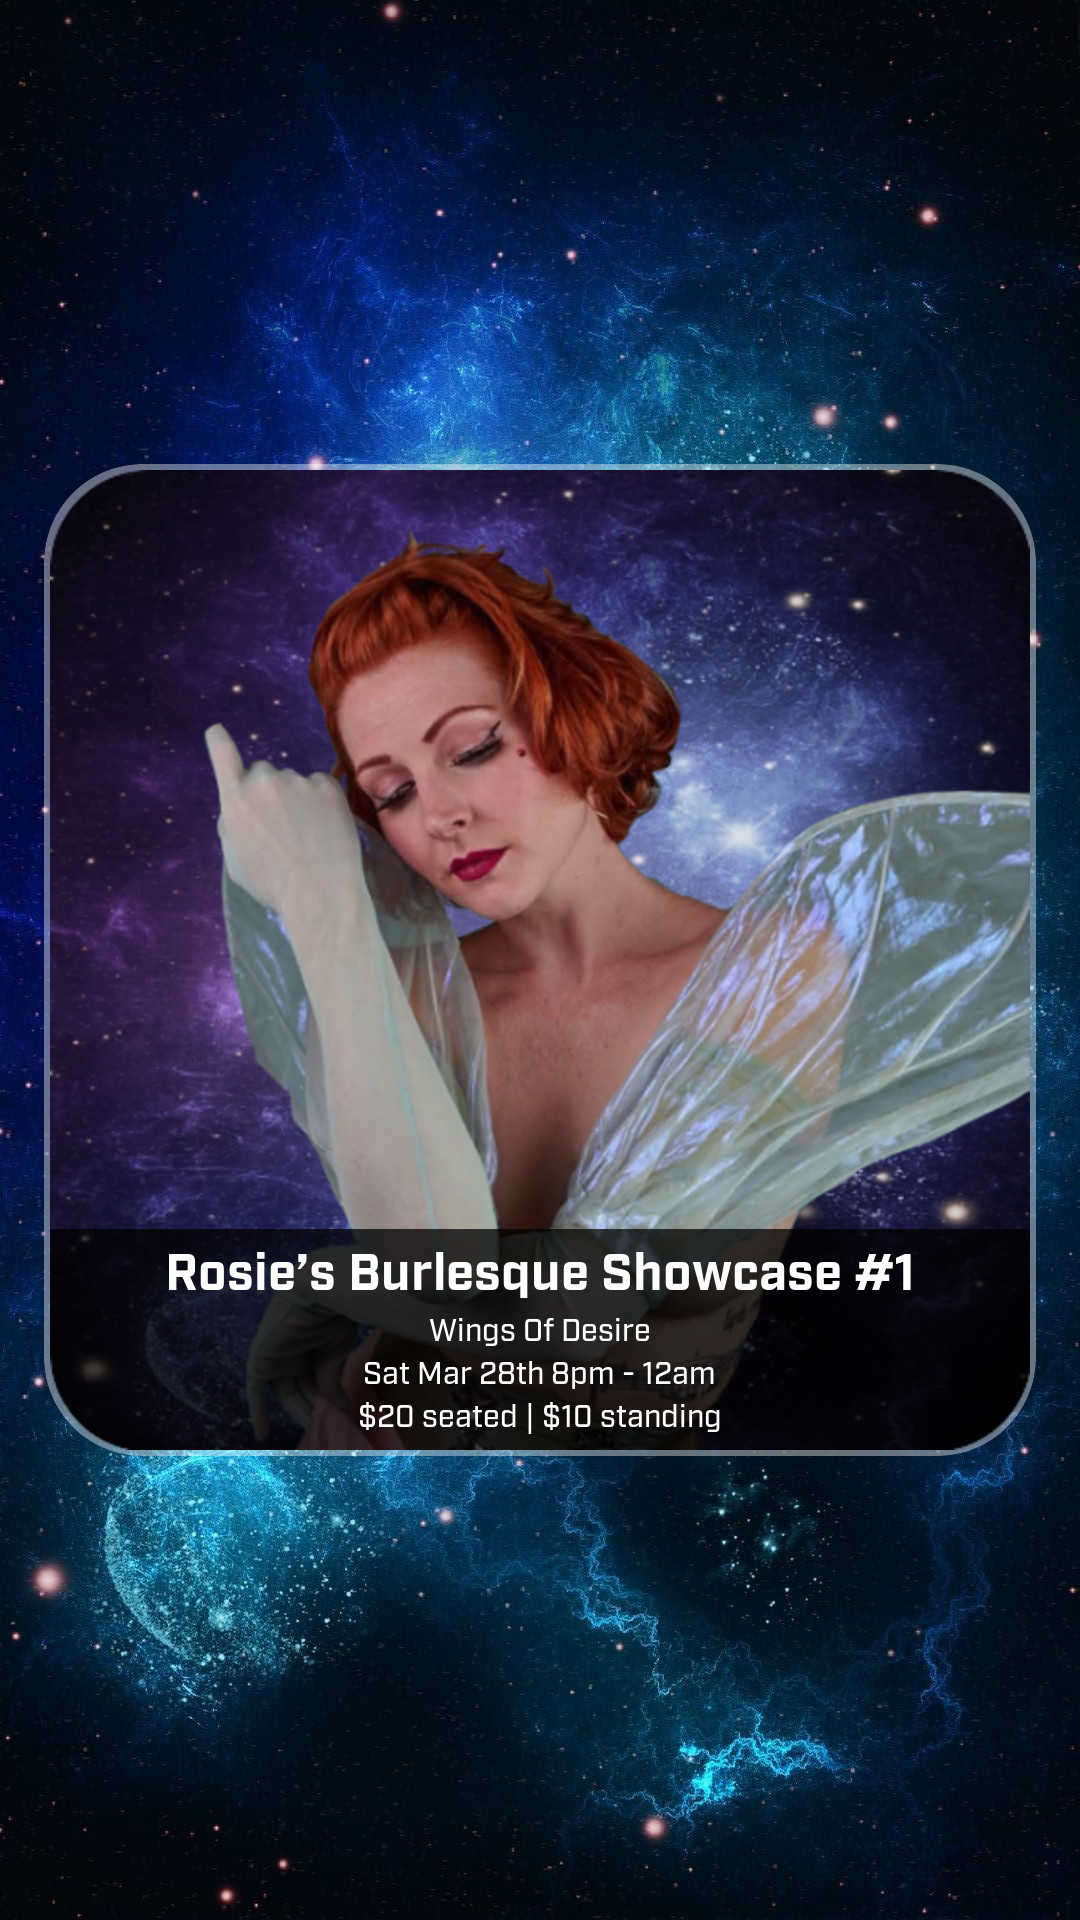
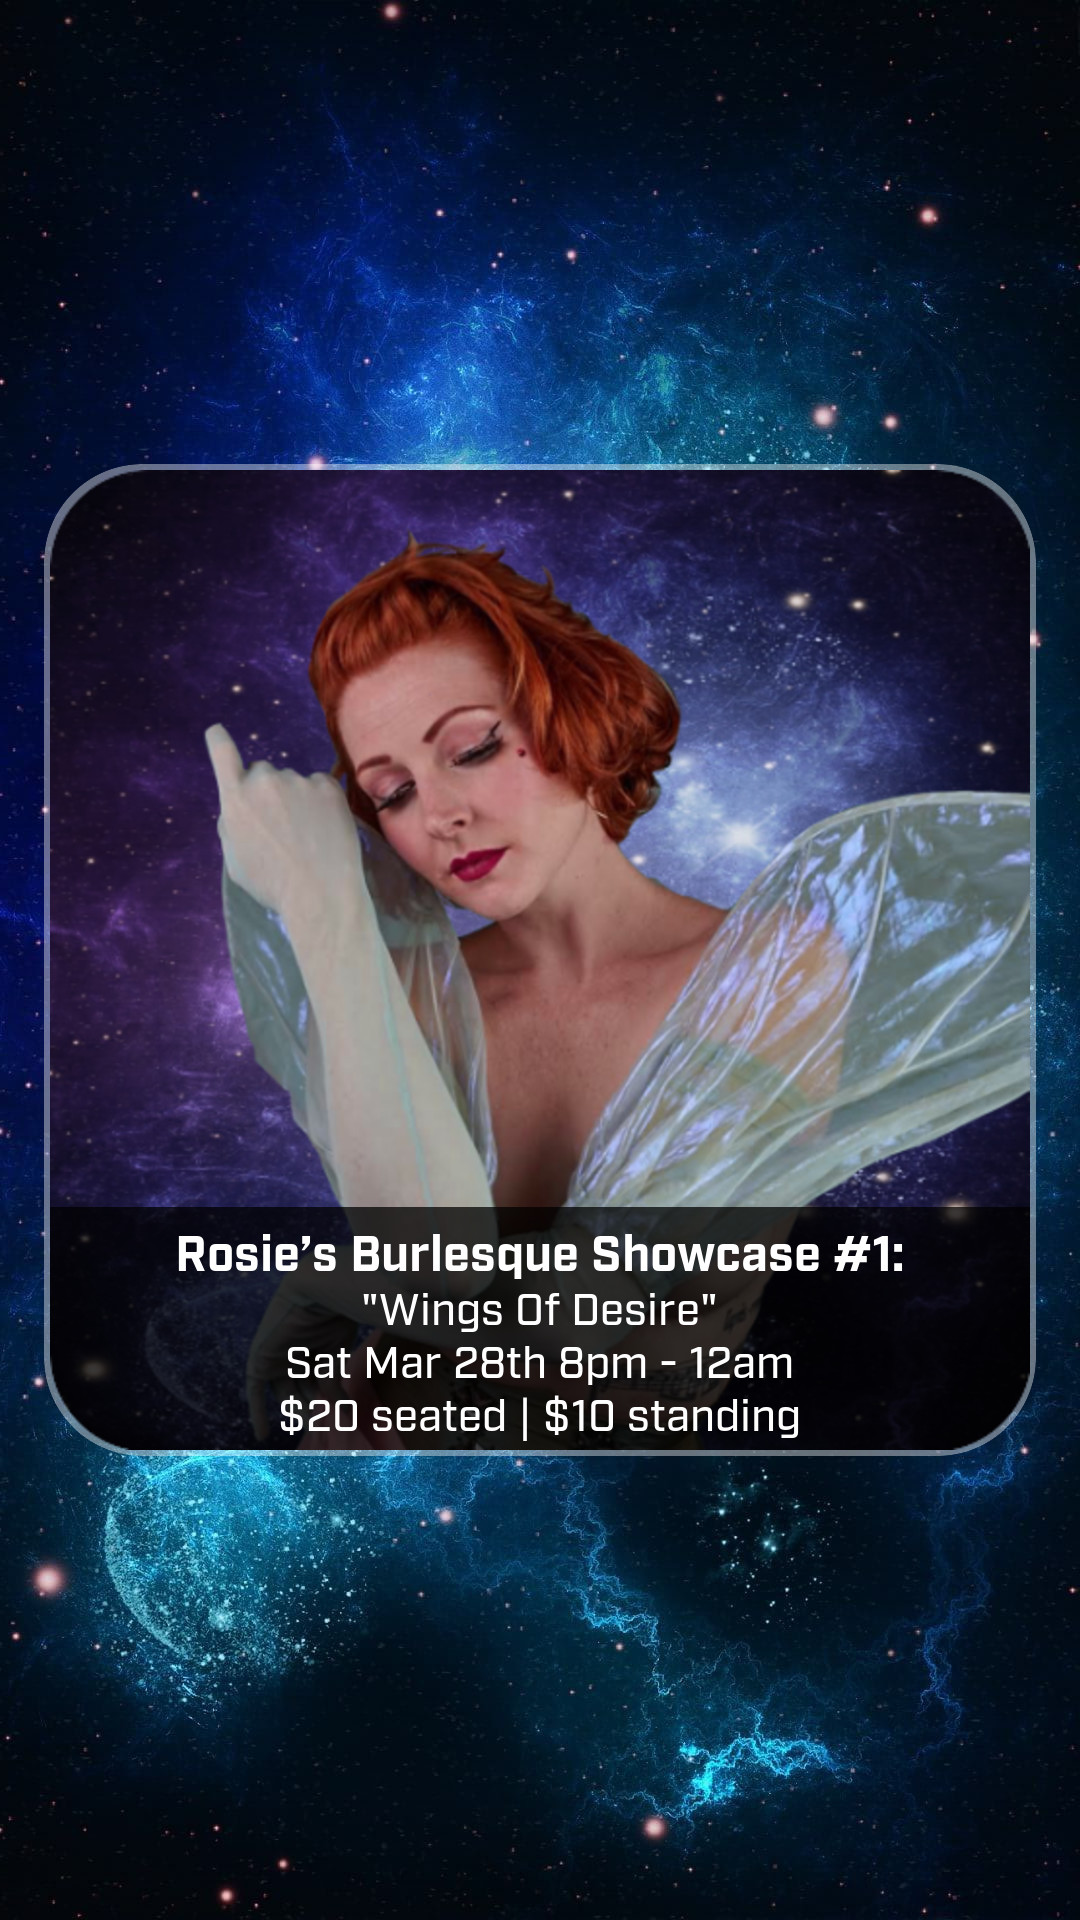
door timeouts

Changed region(s): [[0.0306, 0.625, 0.9472, 0.75]]

diff --git a/ruby/door.rb b/ruby/door.rb
@@ -7,21 +7,21 @@ class Door < Sinatra::Base
   register Sinatra::Auth
 
   post('/up', :auth=> 'door') do
-    RestClient.patch( 'http://cosmicfitclub.ddns.net:5000/api/v1/pin/26', '{ "value": 1 }', :content_type => 'application/json' )
+    RestClient.patch( 'http://cosmicfitclub.ddns.net:5000/api/v1/pin/26', '{ "value": 1 }', :content_type => 'application/json', :timeout => 3 )
     sleep(0.5)
-    RestClient.patch( 'http://cosmicfitclub.ddns.net:5000/api/v1/pin/26',  '{ "value": 0 }', :content_type => 'application/json' )
+    RestClient.patch( 'http://cosmicfitclub.ddns.net:5000/api/v1/pin/26',  '{ "value": 0 }', :content_type => 'application/json' :timeout => 3 )
     Slack.website_access "#{Time.now.strftime("%m/%d/%Y %I:%M:%S %p")} Door Opened By #{customer.nil? ? "Unknown" : customer.name}"
   end
 
   post('/down', :auth=> 'door') do
     payload = { :value => params[:val].to_i }.to_json
-    RestClient.patch( 'http://cosmicfitclub.ddns.net:5000/api/v1/pin/6', payload , :content_type => 'application/json' )
+    RestClient.patch( 'http://cosmicfitclub.ddns.net:5000/api/v1/pin/6', payload , :content_type => 'application/json', :timeout => 3 )
   end
 
   post('/stop', :auth=> 'door') do
-    RestClient.patch( 'http://cosmicfitclub.ddns.net:5000/api/v1/pin/22', { :value => 1 }.to_json, :content_type => 'application/json' ) 
+    RestClient.patch( 'http://cosmicfitclub.ddns.net:5000/api/v1/pin/22', { :value => 1 }.to_json, :content_type => 'application/json', :timeout => 3 ) 
     sleep(0.5)
-    RestClient.patch( 'http://cosmicfitclub.ddns.net:5000/api/v1/pin/22', { :value => 0 }.to_json, :content_type => 'application/json' ) 
+    RestClient.patch( 'http://cosmicfitclub.ddns.net:5000/api/v1/pin/22', { :value => 0 }.to_json, :content_type => 'application/json', :timeout => 3 ) 
   end
 
 end

diff --git a/printable/EventPoster.rb b/printable/EventPoster.rb
@@ -27,9 +27,9 @@ module EventPoster
         :x_offset => 40,
         :y_offset => 311,
         :width    => 1000,
-        :margin   => 5,
+        :margin   => 3,
         :ptscale  => 0.05,
-        :ptscale2 => 0.04
+        :ptscale2 => 0.043
       }
     ])
   end
@@ -48,7 +48,8 @@ module EventPoster
         :y_offset => 550,
         :width    => 1100,
         :ptscale  => 0.05,
-        :margin   => 5
+        :ptscale2 => 0.043,
+        :margin   => 3
       },
       { :type     => 'footer' }
     ])
@@ -62,8 +63,9 @@ module EventPoster
         :x_offset => 20,
         :y_offset => 20,
         :width    => 1040,
-        :margin   => 4,
-        :ptscale  => 0.05
+        :margin   => 3,
+        :ptscale  => 0.05,
+        :ptscale2 => 0.04
       }
     ])
   end
@@ -76,7 +78,9 @@ module EventPoster
         :x_offset => 50,
         :y_offset => 470,
         :width    => 980,
-        :ptscale  => 0.05
+        :ptscale  => 0.05,
+        :ptscale2 => 0.043
+
       }
     ])
   end
@@ -89,7 +93,8 @@ module EventPoster
         :x_offset => 50,
         :y_offset => 40,
         :width    => 1000,
-        :ptscale  => 0.05
+        :ptscale  => 0.05,
+        :ptscale2 => 0.043
       }
     ])
   end
@@ -108,7 +113,9 @@ module EventPoster
         :y_offset => 20,
         :width    => 960,
         :margin   => 5,
-        :height   => 484
+        :height   => 484,
+        :ptscale  => 0.05,
+        :ptscale2 => 0.043
       }
     ])
   end

diff --git a/printable/lib/MiniMagickExtensions::Image::Text.rb b/printable/lib/MiniMagickExtensions::Image::Text.rb
@@ -67,7 +67,7 @@ module MiniMagickExtensions
         opts[:ptsize2] ||= opts[:ptsize] * 0.6
 
         line_count   = opts[:lines].count-1
-        line_height  = (opts[:ptsize]  / 72 * 300) * 1.4
+        line_height  = (opts[:ptsize]  / 72 * 300) * 1.3
         line_height2 = (opts[:ptsize2] / 72 * 300) * 1.2
 
         y_offset = opts[:offset] + line_height +  line_height2 * line_count
